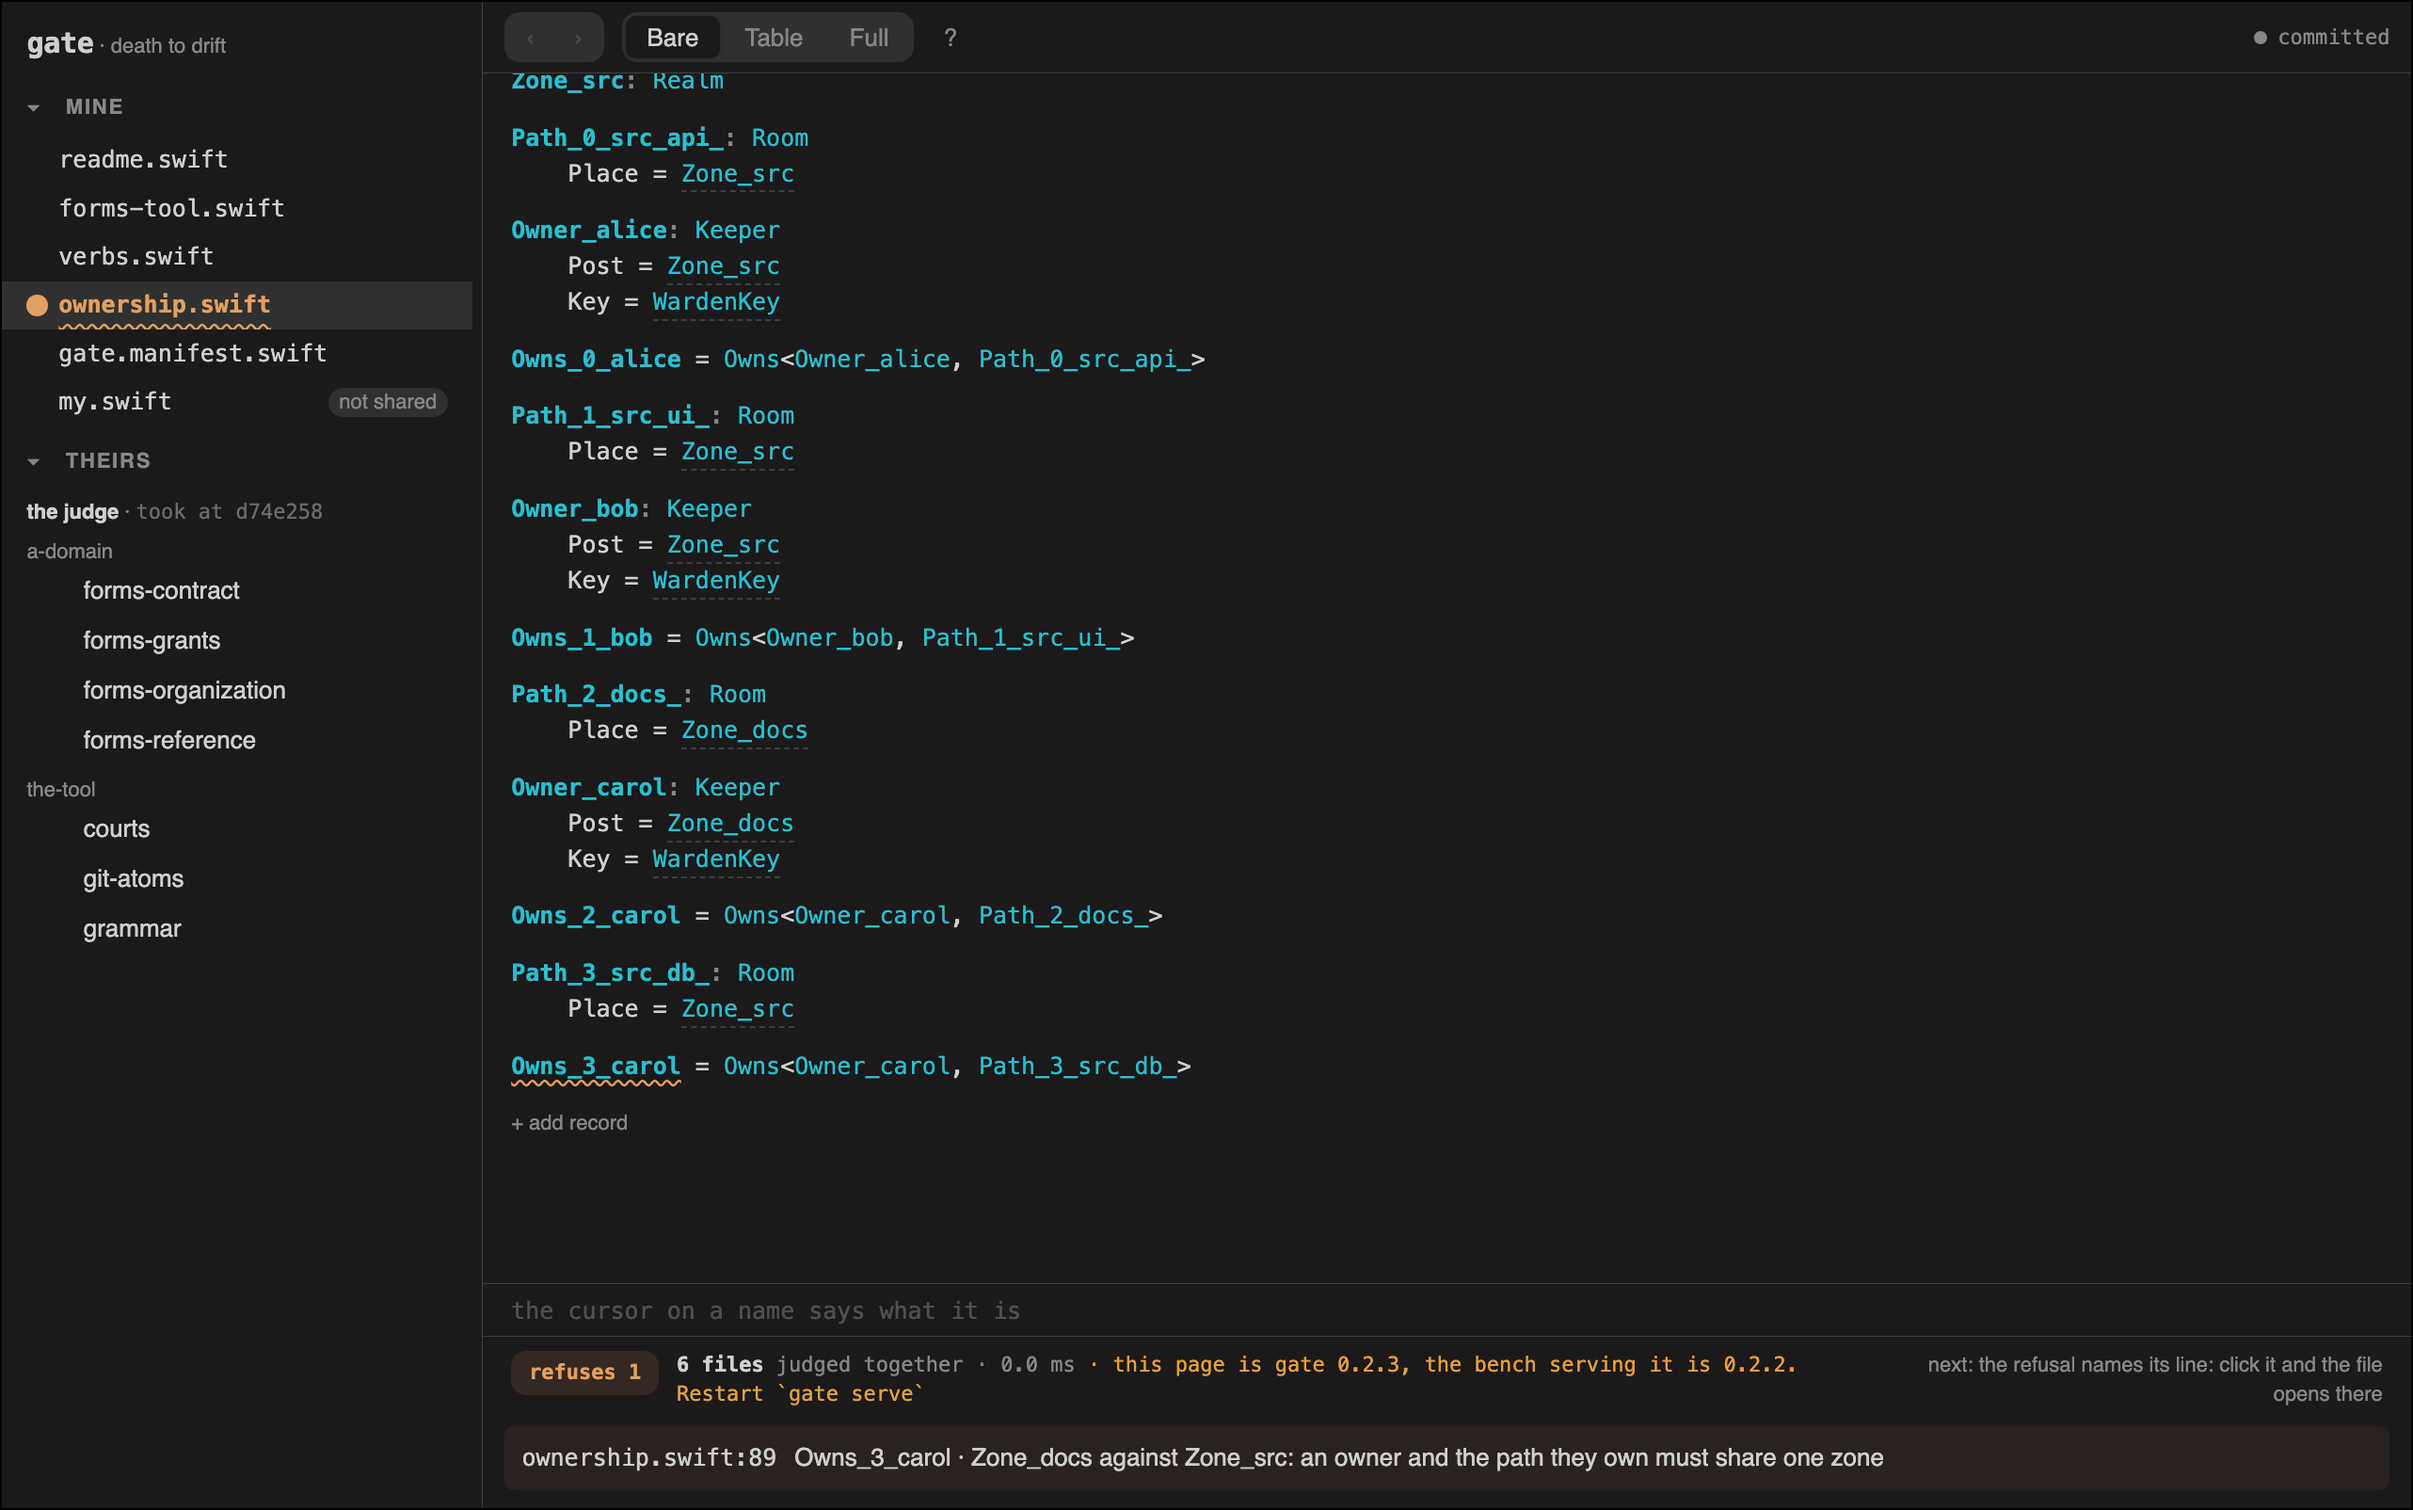
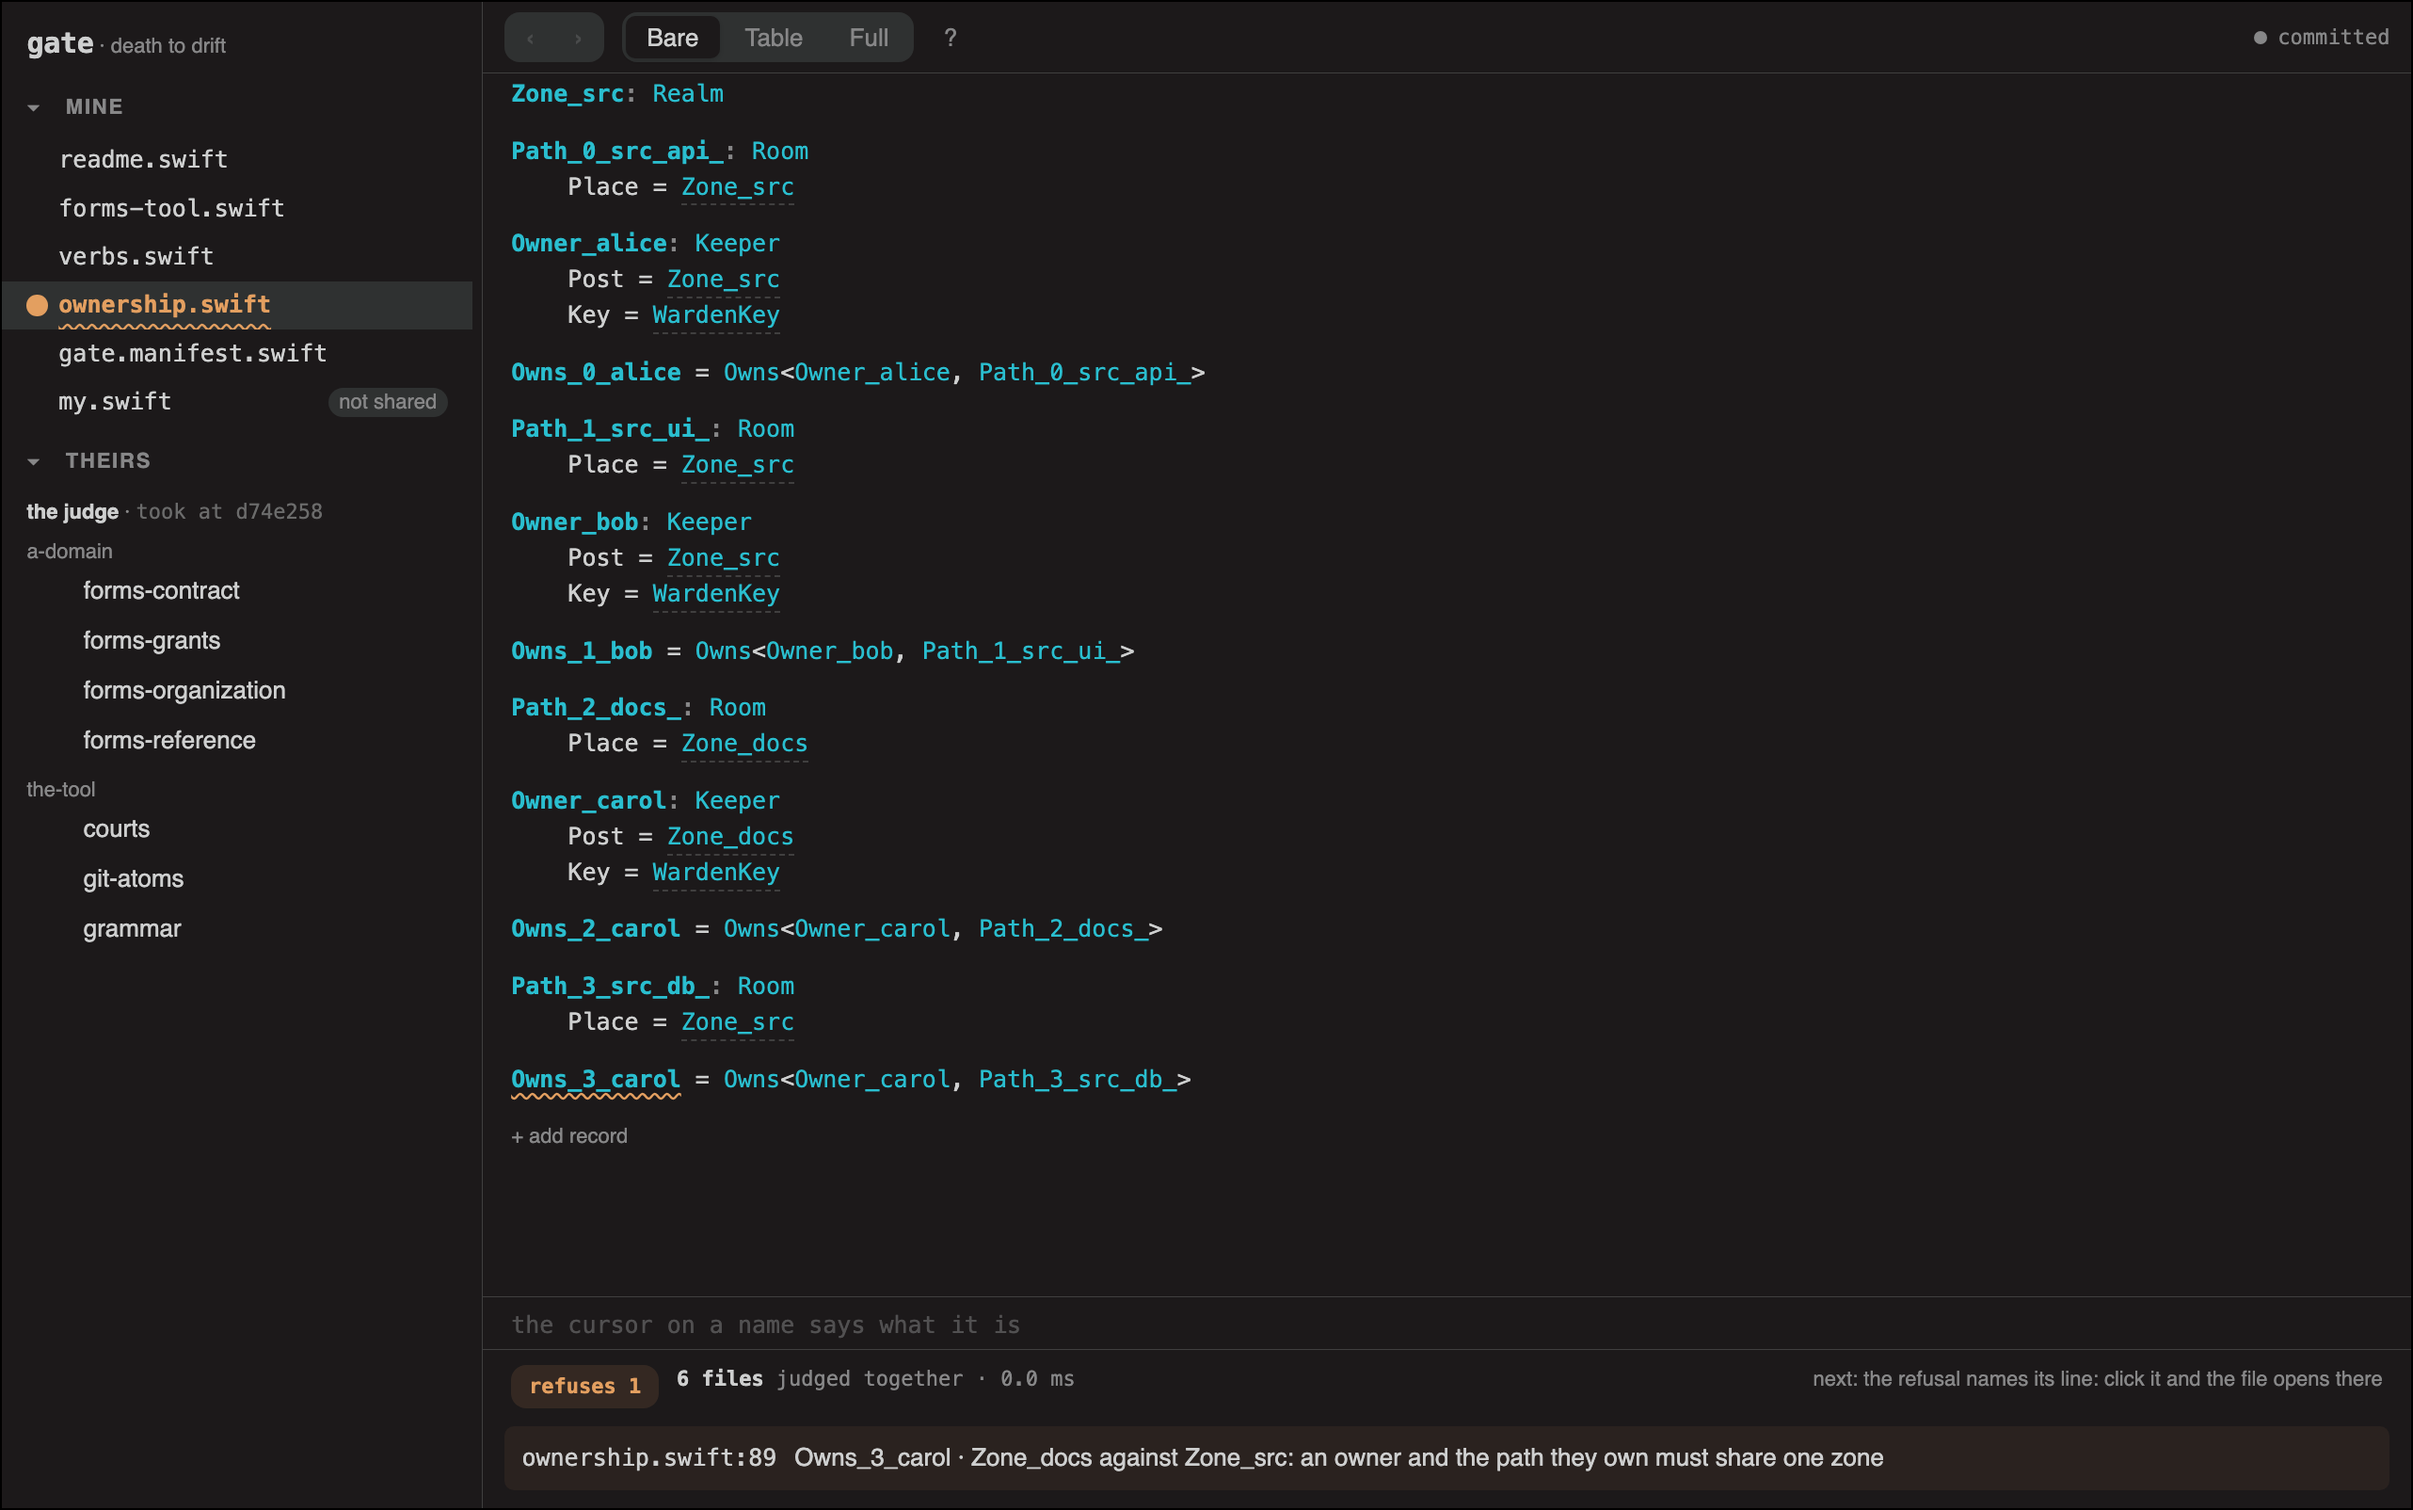
release: 0.2.4, the linux binaries start on today's runners
0.2.3's linux binary took the Swift runtime from the machine it ran on.
It was built on an image with Swift 6.3.3; the runner image moved to
Swift 6.4 in September, and from then on the binary stopped before it
read a row: `symbol lookup error: undefined symbol:
$s20FoundationEssentials4DataV15_RepresentationON`, exit 127. Every
stranger's `uses: DanielSwift1992/gate@v0.2.3` on a linux runner went
red that way. Swift on linux keeps no stable ABI between versions, so
the vein is linked with -static-stdlib there: the runtime and Foundation
travel inside the binary. The release refuses a linux binary that still
links the runner's Swift, and the battery's linux job holds the vein it
built to the same, after first holding that there is a vein to hold.

The build had a second rot. It cloned the last 50 commits of the theory
corpus and checked the court's pin out of them; by October the pin was
older than that and a fresh build stopped at "unable to read tree". The
whole history now comes without its file contents, and the pin's own
files are fetched on checkout.

Nothing else changed: the judge, the courts and every mouth are 0.2.3's.
This is cut from v0.2.3, not from main, so that a stranger who needs a
binary that starts does not also take the behaviour main has gained.
The cover's picture is retaken over the page that says 0.2.4 (T-0035).

diff --git a/web/ui.html b/web/ui.html
@@ -468,7 +468,7 @@ body{font:var(--speech);margin:0;color:var(--ink);background:var(--paper);displa
 // is new, the server is the process that was already running. Nothing said so,
 // and a page talking to a server that has never heard of half its answers fails
 // quietly — the one failure this bench must never have.
-const BENCH_FOR = "0.2.3";
+const BENCH_FOR = "0.2.4";
 // A BAR THAT EXPIRES MAY ANSWER AN ACTION; IT MAY NEVER REPORT A STATE. You
 // asked for the save, so a word about the save can go and be forgotten — but a
 // state you did not cause, and that is still true a minute later, must stay

diff --git a/bin/gate-cli.swift b/bin/gate-cli.swift
@@ -9722,7 +9722,7 @@ func jsonStringASCII(_ s: String) -> String {
 // it there. A literal here would be a second copy of one number, which is the
 // registry's kind 9 written by hand; when that file goes, the declaration moves
 // with it and this reads wherever it lands.
-let VERSION = "0.2.3"
+let VERSION = "0.2.4"
 
 func gateVersion() -> String {
     return VERSION

diff --git a/docs/CHANGELOG.md b/docs/CHANGELOG.md
@@ -1,5 +1,22 @@
 # Changelog
 
+## 0.2.4
+
+- The linux binaries start on today's runners. 0.2.3's linux binary took
+  the Swift runtime from the machine it ran on, built on an image with
+  Swift 6.3.3; the image moved to Swift 6.4 in September, and the binary
+  stopped at `undefined symbol:
+  $s20FoundationEssentials4DataV15_RepresentationON`. Swift on linux
+  keeps no stable ABI between versions, so the runtime and Foundation are
+  linked in now, and the release refuses a linux binary that still links
+  the runner's Swift.
+- The theory's pin is reached however old it grows. The builds cloned the
+  last 50 commits of the corpus and checked the pin out of them; by
+  October 0.2.3's pin was older than that and the build stopped at
+  "unable to read tree". The whole history comes without file contents,
+  and the pin's own files are fetched on checkout.
+- Nothing else changed: the judge, the courts and every mouth are 0.2.3's.
+
 ## Unreleased
 
 The working prototype, end to end:

diff --git a/README.md b/README.md
@@ -106,7 +106,7 @@ One step checks every CODEOWNERS rule and workflow `paths:` filter
 against the files that actually exist, on every push:
 
 ```yaml
-- uses: DanielSwift1992/gate@v0.2.3
+- uses: DanielSwift1992/gate@v0.2.4
 ```
 
 A rule that points to a deleted or renamed path fails the check, with
